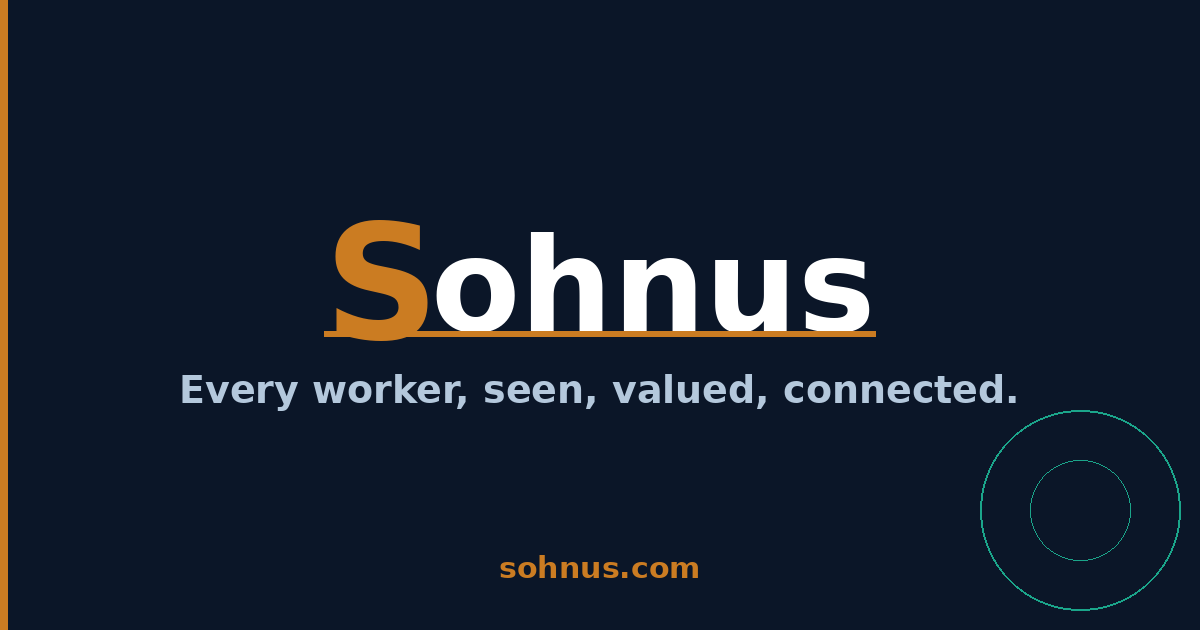
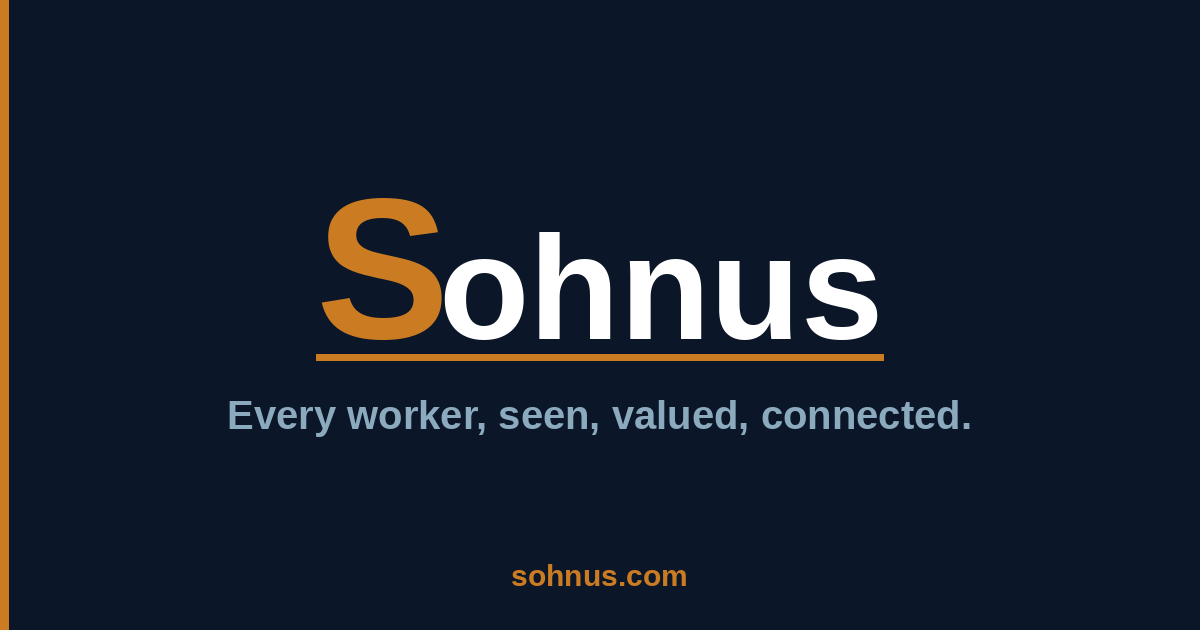
SEO: reposition as professional home not job board; update meta, OG image, hero pill; remove debug logging

diff --git a/landing.html b/landing.html
@@ -3,17 +3,17 @@
 <head>
   <meta charset="UTF-8" />
   <meta name="viewport" content="width=device-width, initial-scale=1.0" />
-  <title>Sohnus | The Platform for Blue-Collar Workers</title>
-  <meta name="description" content="Sohnus is the professional platform built for blue-collar workers. Build your identity, connect with your community, and find jobs that match who you actually are." />
-  <meta name="keywords" content="blue collar jobs, skilled worker platform, worker community, trades jobs, blue collar worker app, job platform for workers" />
+  <title>Sohnus | The Professional Home for Blue-Collar Workers</title>
+  <meta name="description" content="Sohnus is where blue-collar workers belong. Build a professional identity, be seen for your skills and experience, connect with your trade community, and take control of your career. Built by workers, for workers." />
+  <meta name="keywords" content="blue collar worker platform, skilled worker identity, worker community, trades professional network, blue collar professional profile, skilled worker visibility, worker belonging, blue collar community app, trades worker network, professional platform for workers, skilled trades community, worker empowerment platform, blue collar career identity, worker professional profile" />
   <meta name="robots" content="index, follow" />
   <link rel="canonical" href="https://sohnus.com/" />
 
   <!-- Open Graph (Facebook, WhatsApp, LinkedIn) -->
   <meta property="og:type" content="website" />
   <meta property="og:url" content="https://sohnus.com/" />
-  <meta property="og:title" content="Sohnus | The Platform for Blue-Collar Workers" />
-  <meta property="og:description" content="Build your professional identity. Connect with workers in your trade. Find jobs that match who you actually are. Join the waitlist." />
+  <meta property="og:title" content="Sohnus | The Professional Home for Blue-Collar Workers" />
+  <meta property="og:description" content="A place where blue-collar workers belong. Build your professional identity, be seen for who you are and what you know, and connect with your trade community. Join the waitlist." />
   <meta property="og:image" content="https://sohnus.com/og-image.png" />
   <meta property="og:image:width" content="1200" />
   <meta property="og:image:height" content="630" />
@@ -23,8 +23,8 @@
 
   <!-- Twitter Card -->
   <meta name="twitter:card" content="summary_large_image" />
-  <meta name="twitter:title" content="Sohnus | The Platform for Blue-Collar Workers" />
-  <meta name="twitter:description" content="Build your professional identity. Connect with workers in your trade. Find jobs that match who you actually are." />
+  <meta name="twitter:title" content="Sohnus | The Professional Home for Blue-Collar Workers" />
+  <meta name="twitter:description" content="A place where blue-collar workers belong. Build your professional identity, be seen for who you are and what you know, and connect with your trade community." />
   <meta name="twitter:image" content="https://sohnus.com/og-image.png" />
 
   <!-- Favicon -->
@@ -39,7 +39,7 @@
     "name": "Sohnus",
     "url": "https://sohnus.com",
     "logo": "https://sohnus.com/og-image.png",
-    "description": "Sohnus is the professional platform built for blue-collar workers. Identity, community, and job matching for skilled workers.",
+    "description": "Sohnus is the professional home built for blue-collar workers. Build a professional identity that travels with you, be seen and heard in your trade, and connect with a community of workers who understand your world.",
     "founders": [
       { "@type": "Person", "name": "Rogerio Borges Ferreira" },
       { "@type": "Person", "name": "Khaled Mohamed Badawy" }
@@ -644,7 +644,7 @@
   <!-- HERO -->
   <section class="hero">
     <div class="hero-content">
-      <div class="hero-pill">Built for blue-collar workers</div>
+      <div class="hero-pill">Your professional home</div>
       <h1>Every worker,<br/><em>seen, valued,<br/>connected.</em></h1>
       <p class="hero-sub">
         We are the sons of blue-collar families. We grew up, built careers, and came back.